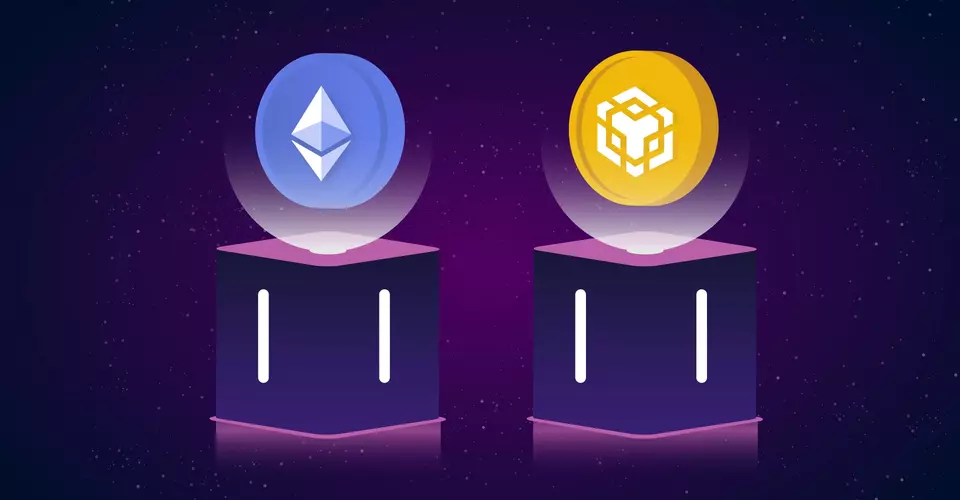
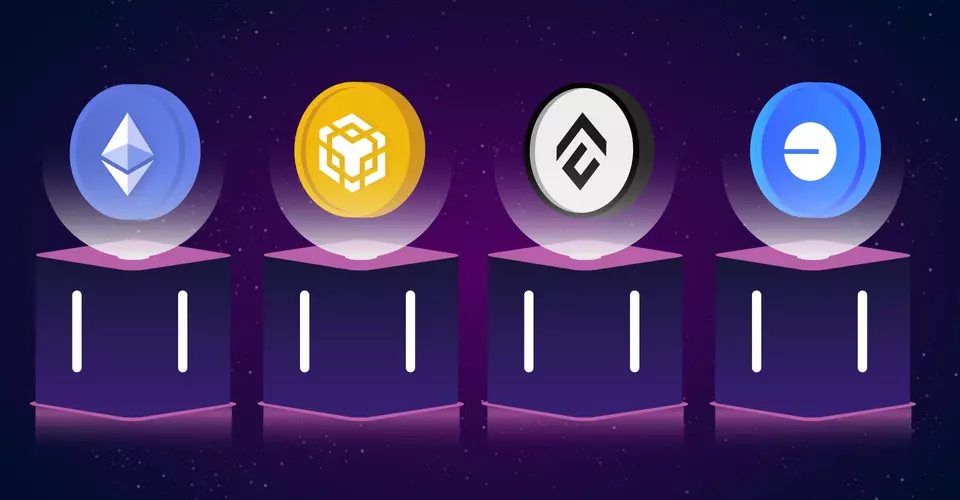
changed features images and content

diff --git a/src/screens/Home/Utilities/Utilities.js b/src/screens/Home/Utilities/Utilities.js
@@ -8,7 +8,7 @@ const Utilities = () => {
       image: "dyp.svg",
       desc: `
       <p class="utility-desc">
-      Launched on December 29, 2022, World of Dypians it is currently live on both the Ethereum and BNB Chain mainnets. By being on the mainnet, users can participate in activities and integrations in real-time and explore the benefits of blockchain technology.
+      Launched on December 29, 2022, World of Dypians it is currently live on Ethereum, BNB Chain, Conflux Network, and Base mainnets. By being on the mainnet, users can participate in activities and integrations in real-time and explore the benefits of blockchain technology.
       </p>`,
       class: "mainnet-card",
     },
@@ -28,11 +28,11 @@ const Utilities = () => {
       class: "stats-card",
     },
     {
-      title: "NFT Integrations",
+      title: "All-In-One Platform",
       image: "caws.png",
       desc: `
       <p class="utility-desc">
-      World of Dypians integrates two NFT collections, CAWS and Genesis Land. CAWS are 3D creatures that act as AI-powered companions, while Genesis Land offers users their own plot of virtual land to develop. These collections enhance the user experience and provide new opportunities for self-expression within the metaverse.      
+      The World of Dypians ecosystem seamlessly integrates the Metaverse, DeFi, NFTs, and Business Development into one platform. We have integrated DeFi, businesses, and NFTs within the Metaverse, providing a unique user journey and experience for our users.     
       </p>`,
       class: "integrations-card",
     },
@@ -50,7 +50,7 @@ const Utilities = () => {
     //   image: "genesis.png",
     //   desc: `
     //   <p class="utility-desc">
-    //   A wide range of exclusive features and benefits to its users, and one way to gain access to these is by participating in live events. There are four events such as Golden Pass, Puzzle Madness, Dragon Ruins, and Critical Hit. Users can unlock new opportunities from custom integrations and activities on-chain, as well as earn rewards and recognition within the World of Dypians community.      
+    //   A wide range of exclusive features and benefits to its users, and one way to gain access to these is by participating in live events. There are four events such as Golden Pass, Puzzle Madness, Dragon Ruins, and Critical Hit. Users can unlock new opportunities from custom integrations and activities on-chain, as well as earn rewards and recognition within the World of Dypians community.
     //   </p>`,
     //   class: "events-card",
     // },
@@ -59,7 +59,7 @@ const Utilities = () => {
     //   image: "genesis.png",
     //   desc: `
     //   <p class="utility-desc">
-    //   A wide range of exclusive features and benefits to its users, and one way to gain access to these is by participating in live events. There are four events such as Golden Pass, Puzzle Madness, Dragon Ruins, and Critical Hit. Users can unlock new opportunities from custom integrations and activities on-chain, as well as earn rewards and recognition within the World of Dypians community.      
+    //   A wide range of exclusive features and benefits to its users, and one way to gain access to these is by participating in live events. There are four events such as Golden Pass, Puzzle Madness, Dragon Ruins, and Critical Hit. Users can unlock new opportunities from custom integrations and activities on-chain, as well as earn rewards and recognition within the World of Dypians community.
     //   </p>`,
     //   class: "partners-card",
     // },

diff --git a/src/components/Header/Header.js b/src/components/Header/Header.js
@@ -574,10 +574,12 @@ const Header = ({
               </div>
               <DropdownButton
                 id="dropdown-basic-button"
+                style={{width: "124px"}}
                 className="d-flex align-items-center justify-content-center"
                 title={
                   <span className="dropdown-title">
-                    <img
+                   <div className="d-flex align-items-center gap-1">
+                   <img
                       src={
                         ethState === true
                           ? eth
@@ -608,6 +610,7 @@ const Header = ({
                           ? "Conflux"
                           :"Unsupported Chain"}
                     </span>
+                   </div>
 
                     <img src={dropdown} alt="" />
                   </span>

diff --git a/src/screens/Marketplace/MarketNFTs/BetaPassNFT.js b/src/screens/Marketplace/MarketNFTs/BetaPassNFT.js
@@ -579,7 +579,7 @@ const BetaPassNFT = ({
             style={{ backgroundSize: "cover" }}
           >
             <div className="container-lg mx-0 position-relative">
-              <div className="row align-items-center justify-content-between mt-4 mb-5 gap-4 gap-lg-0">
+              <div className="row align-items-center justify-content-between mt-4 mb-5 gap-4 gap-lg-0" style={{minHeight: "232px"}}>
                 <div className="col-12 col-lg-6">
                   <div className="d-flex flex-column gap-3">
                     <h6 className="nft-page-title pt-4 pt-lg-0 mt-5 mt-lg-4">

diff --git a/src/screens/Home/WodBuilders/WodBuilders.js b/src/screens/Home/WodBuilders/WodBuilders.js
@@ -65,7 +65,7 @@ const WodBuilders = () => {
 
   return (
     <div className='px-3 px-lg-5 d-flex flex-column justify-content-center align-items-center  ' id='wodbuilders'>
-      <div className="d-flex  justify-content-center align-items-center gap-2">
+      <div className="d-flex  justify-content-center align-items-center mb-4 gap-2">
         <h2 className="font-organetto builders-title explorer-grid-title px-0">
           <mark className="font-organetto explore-tag pe-2">Pioneers</mark>
           shaping the World of Dypians{" "}

diff --git a/src/components/Header/_header.scss b/src/components/Header/_header.scss
@@ -111,6 +111,7 @@
   height: 32px;
   padding: 8px;
   height: 34px;
+  width: 124px;
   border: 1px solid #b8b8e0 !important;
   display: flex;
   align-items: center;
@@ -159,11 +160,19 @@
   display: flex;
   gap: 5px;
   align-items: center;
+  justify-content: space-between;
+  width: 100%;
   font-style: normal;
   font-weight: 500;
   font-size: 10px;
   line-height: 18px;
   color: #8e97cd;
+}
+
+#dropdown-basic-button{
+  button{
+    width: 100%;
+  }
 }
 
 #dropdown-basic-button2 {
